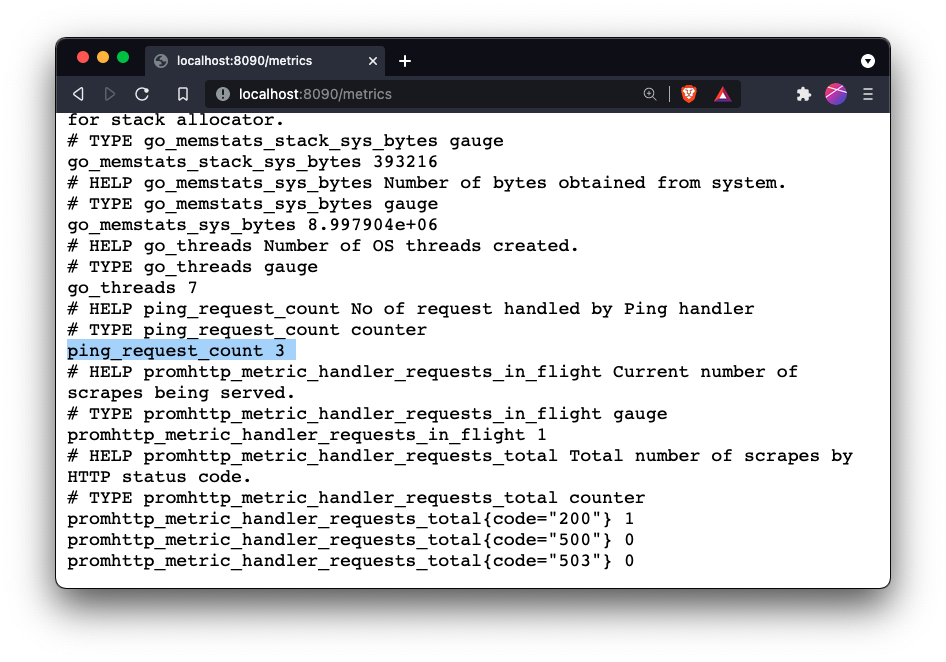
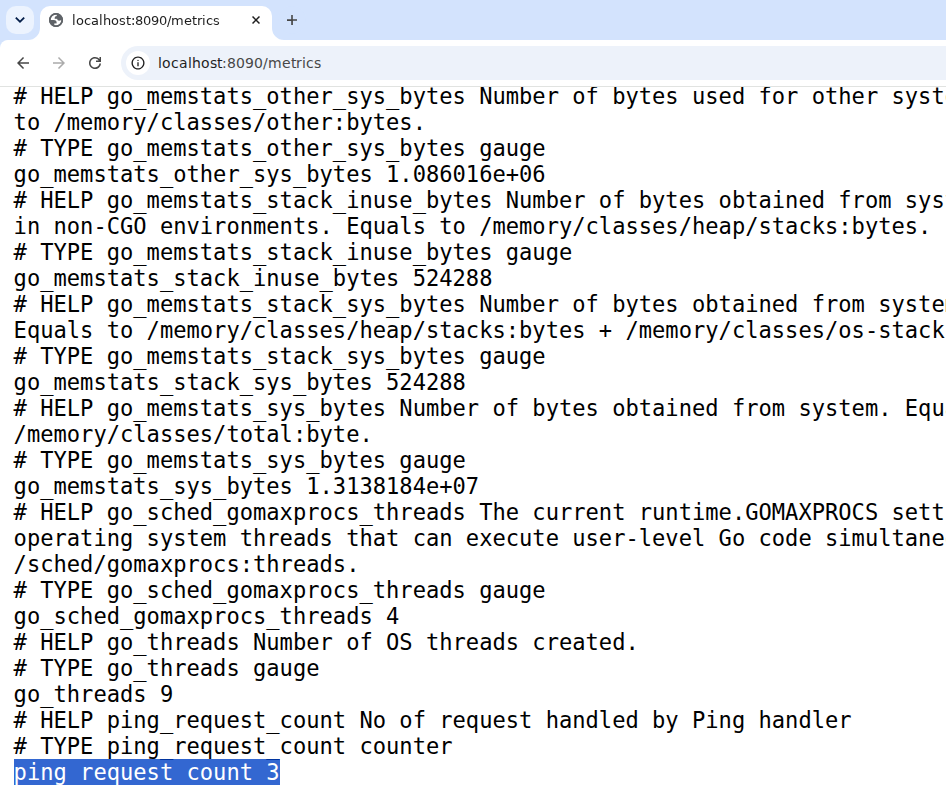
docs(tutorial): register Go collector and refresh metrics screenshot
The sample uses a custom registry (prometheus.NewRegistry()) which
starts empty, so register collectors.NewGoCollector() explicitly —
the same pattern as docs/guides/go-application.md — and regenerate
ping_metric.png from the tutorial's real output so the prose, code
and screenshot agree again.

diff --git a/docs/tutorials/instrumenting_http_server_in_go.md b/docs/tutorials/instrumenting_http_server_in_go.md
@@ -71,11 +71,12 @@ func ping(m *metrics) func(w http.ResponseWriter, req *http.Request) {
 }
 ```
 
-Then register the metrics (in this case, only one counter) with a Prometheus registry and expose the metrics.
+Then register the metrics with a Prometheus registry and expose them. Here we use a custom registry and also register the Go runtime collector with it.
 
 ```go
 func main() {
 	reg := prometheus.NewRegistry()
+	reg.MustRegister(collectors.NewGoCollector())
 	m := newMetrics(reg)
 
 	http.HandleFunc("/ping", ping(m))
@@ -98,6 +99,7 @@ import (
 	"net/http"
 
 	"github.com/prometheus/client_golang/prometheus"
+	"github.com/prometheus/client_golang/prometheus/collectors"
 	"github.com/prometheus/client_golang/prometheus/promauto"
 	"github.com/prometheus/client_golang/prometheus/promhttp"
 )
@@ -126,6 +128,7 @@ func ping(m *metrics) func(w http.ResponseWriter, req *http.Request) {
 
 func main() {
 	reg := prometheus.NewRegistry()
+	reg.MustRegister(collectors.NewGoCollector())
 	m := newMetrics(reg)
 
 	http.HandleFunc("/ping", ping(m))
@@ -147,7 +150,7 @@ Now hit the localhost:8090/ping endpoint a couple of times and then send a reque
 
 Here, the `ping_request_count` shows that the `/ping` endpoint was called 3 times.
 
-The code above uses a custom registry (`prometheus.NewRegistry()`), which does not include Go runtime metrics by default. To also collect Go runtime metrics like `go_threads` and `go_goroutines`, register `collectors.NewGoCollector()` (from `github.com/prometheus/client_golang/prometheus/collectors`) with the registry.
+Unlike the default registry, a custom registry (`prometheus.NewRegistry()`) starts empty, so we registered the Go runtime collector explicitly with `reg.MustRegister(collectors.NewGoCollector())` (from `github.com/prometheus/client_golang/prometheus/collectors`). That is why we see other metrics like `go_threads`, `go_goroutines`, etc.
 
 We have built our first metric exporter. Let’s update our Prometheus config to scrape the metrics from our server.
 
